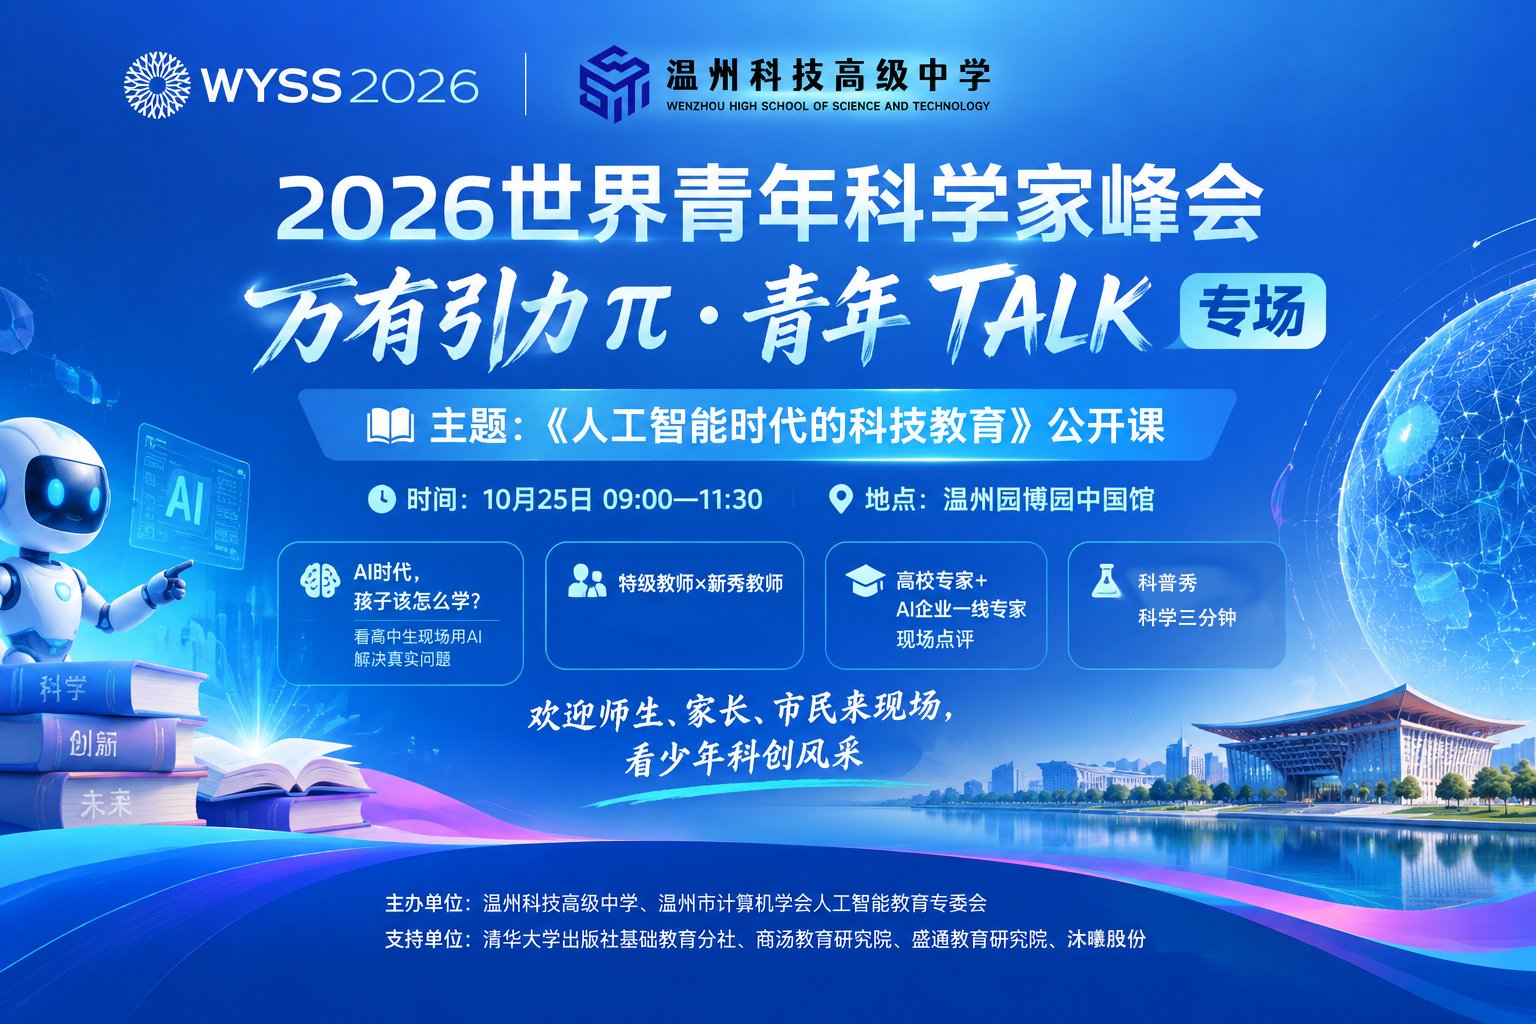
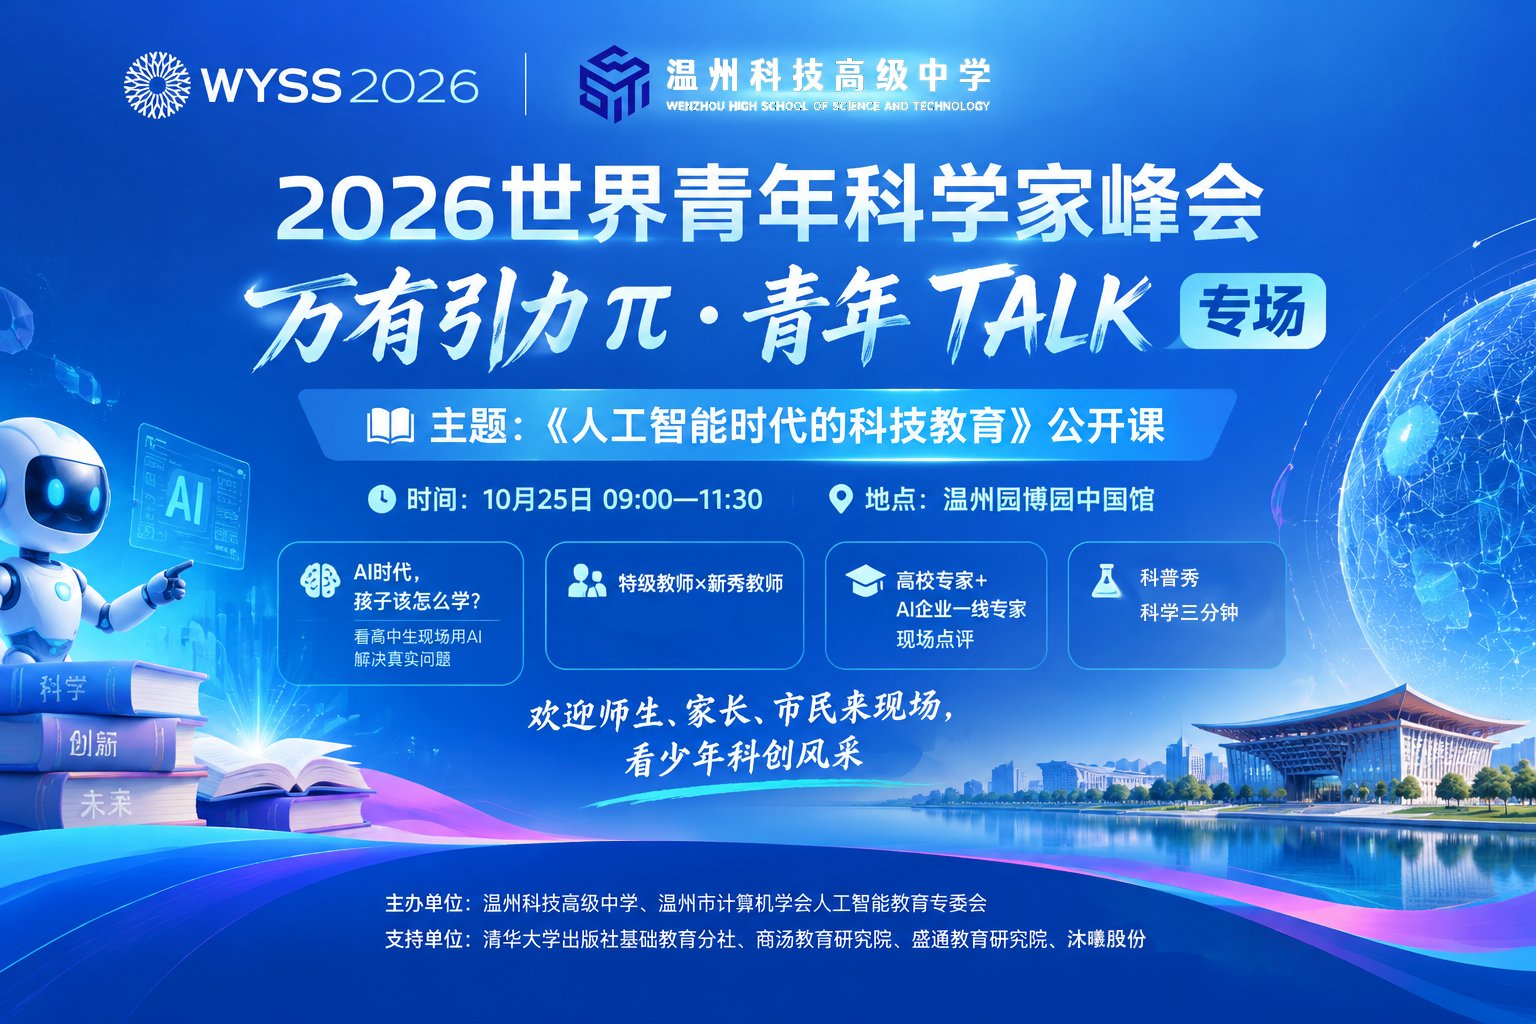
更新封面海报（微调版）

Changed region(s): [[0.4375, 0.0625, 0.6562, 0.125], [0.7188, 0.5312, 0.8125, 0.625]]

diff --git a/index.html b/index.html
@@ -291,7 +291,7 @@
       </div>
     </div>
     <figure class="poster" style="margin:0">
-      <img src="assets/poster.jpg" alt="2026 世界青年科学家峰会 万有引力π·青年TALK 专场 海报">
+      <img src="assets/poster.jpg?v=2" alt="2026 世界青年科学家峰会 万有引力π·青年TALK 专场 海报">
       <figcaption class="poster-cap">WYSS 2026 · 温州科技高级中学</figcaption>
     </figure>
   </div>
